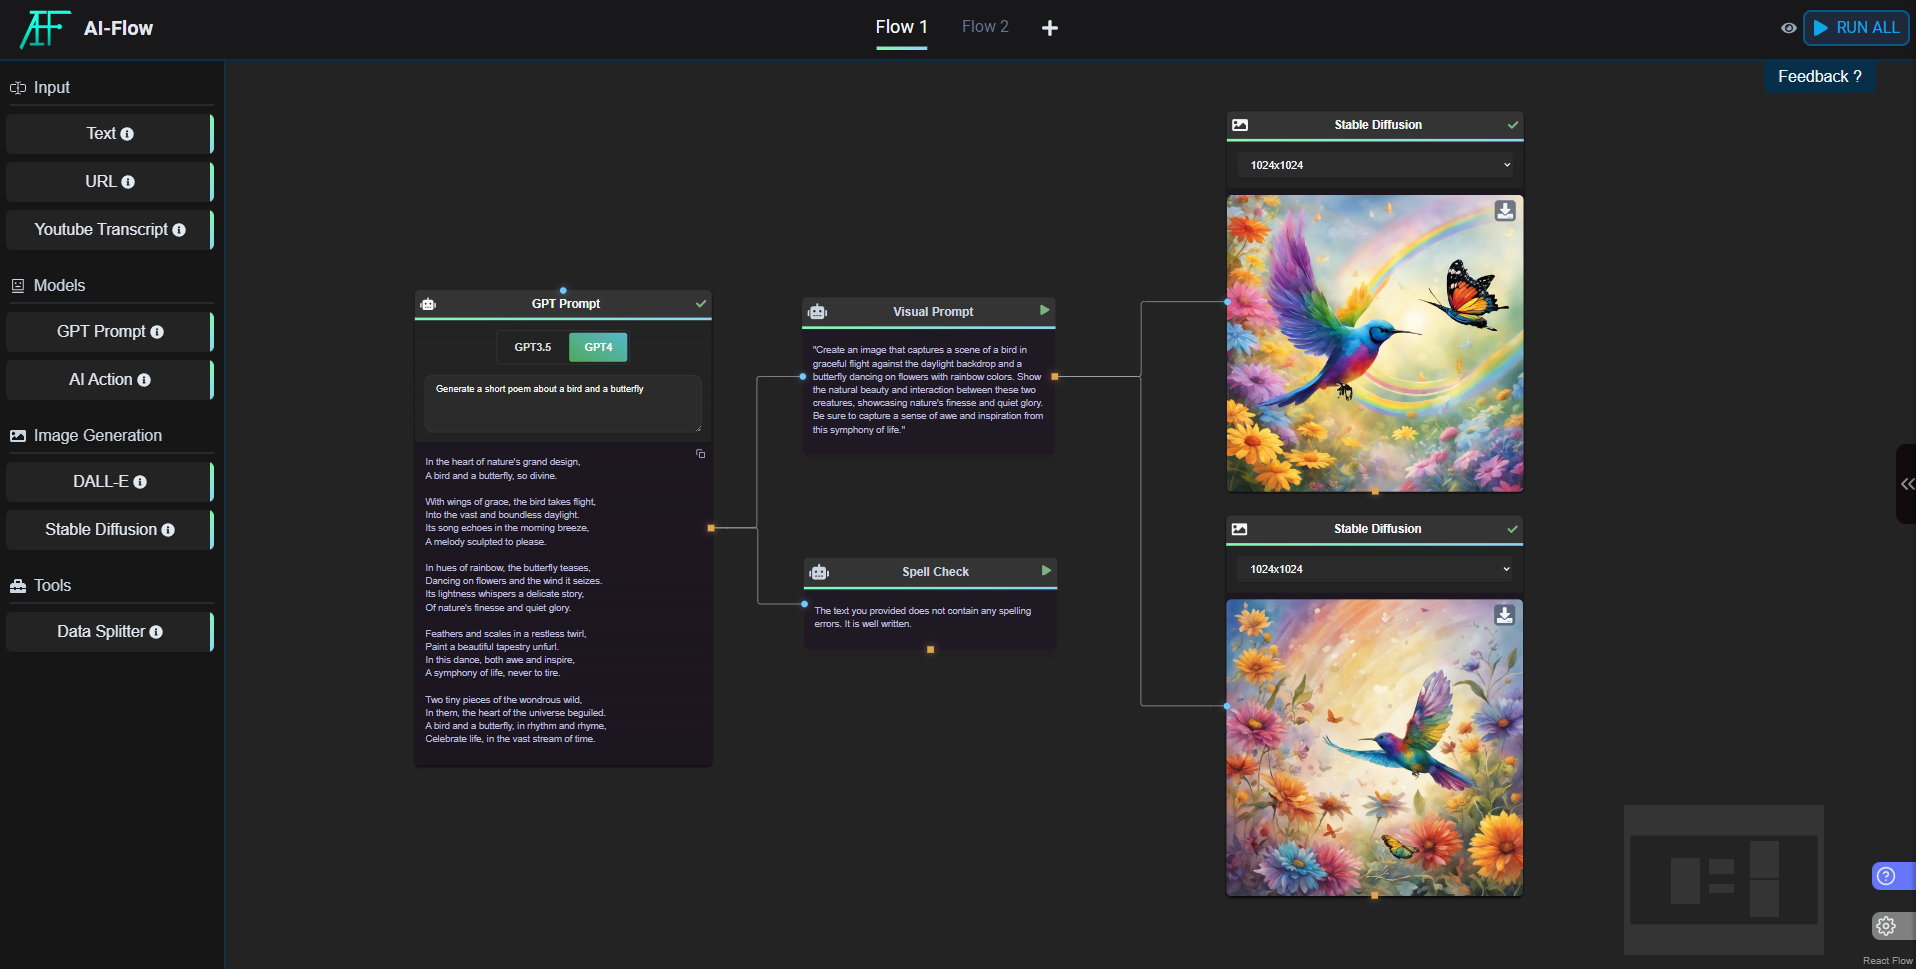
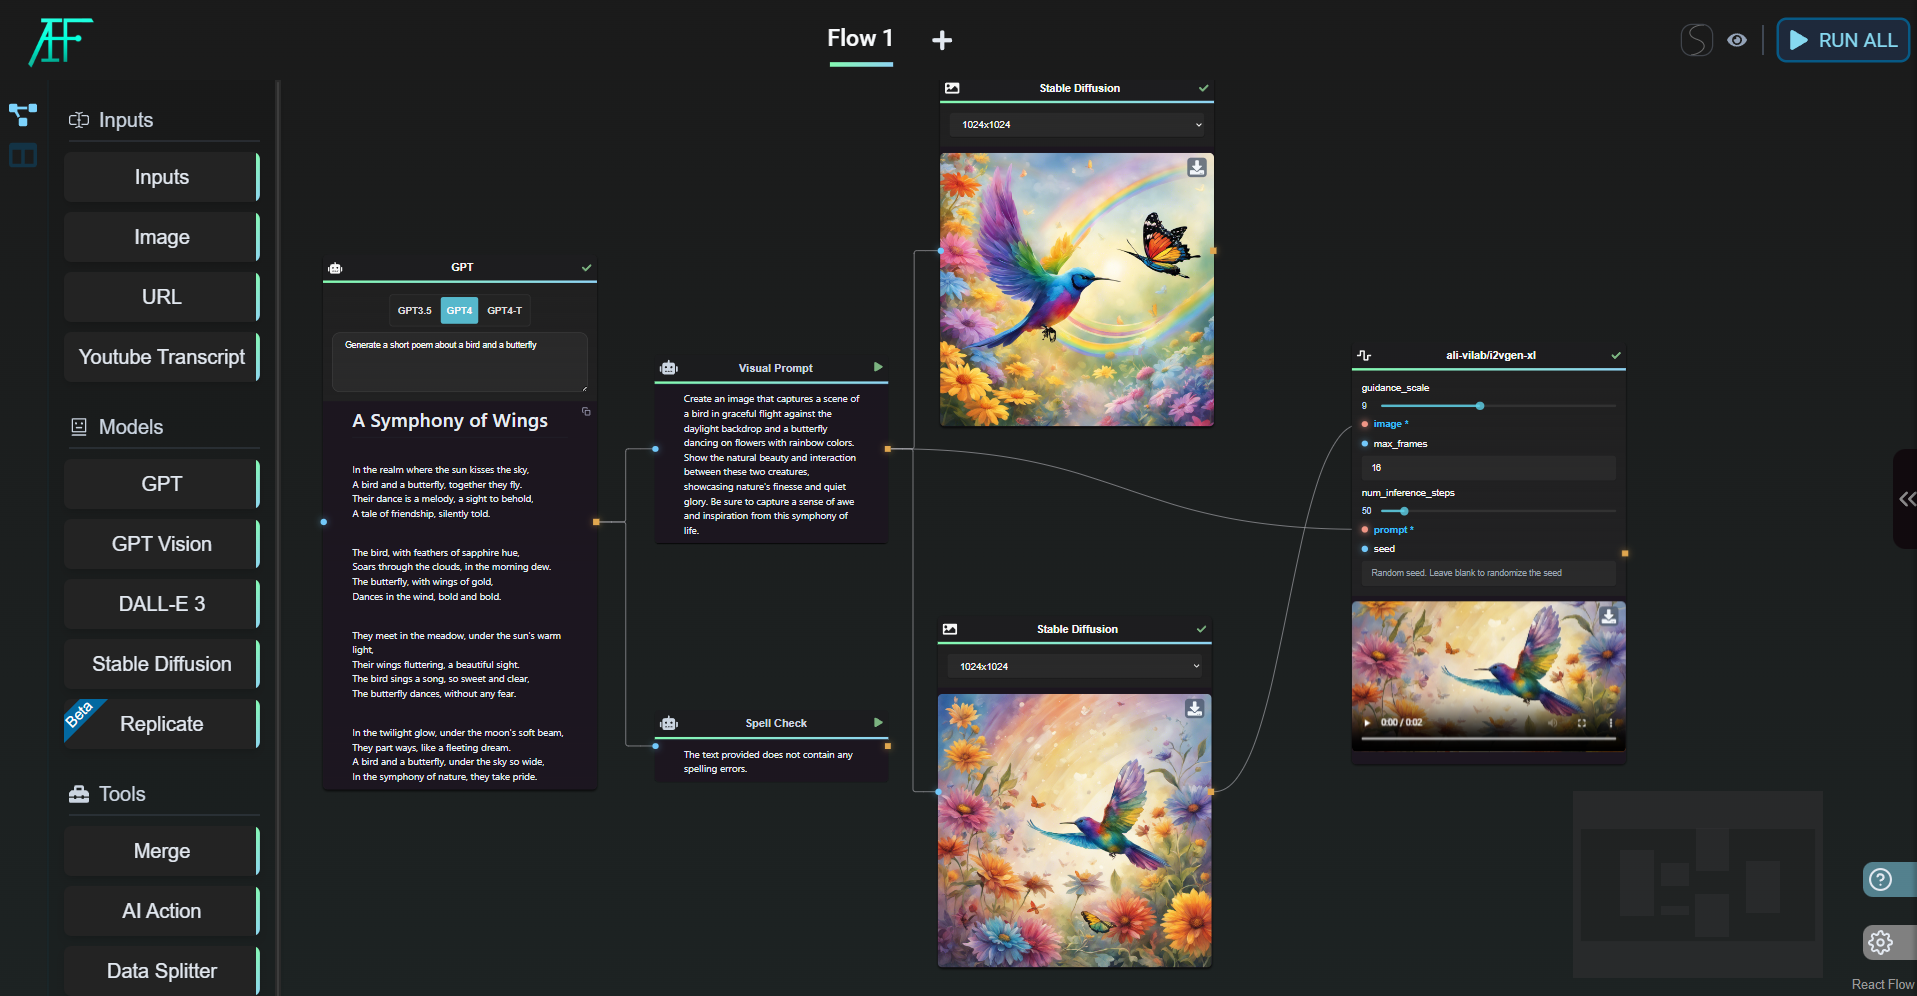
update doc for v.0.6.0

diff --git a/docs/nodes-presentation/replicate-node.md b/docs/nodes-presentation/replicate-node.md
@@ -1,0 +1,59 @@
+---
+sidebar_position: 6
+---
+
+# Access Diverse AI Models
+
+## Replicate Node
+
+The Replicate Node serves as a gateway to a multitude of open-source models hosted on Replicate, a platform that enables community members to host and run these models in the cloud. 
+
+This node provides seamless access to a wide array of innovative models available on [Replicate](https://replicate.com/explore).
+
+![Replicate Intro](/img/page-images/replicate-node/replicate-intro.gif)
+
+:::tip Note
+
+Each model on Replicate has its unique characteristics, including varying processing times and costs. Be aware that less frequently used models may experience slower response times during initial requests.
+
+:::
+
+
+### Model Selection Interface
+
+Upon selecting "Select Model," a popup window displays all available models. Models under the "spotlight" category are specifically curated by AI-FLOW and are subject to change.
+
+![Model Popup](/img/page-images/replicate-node/model-popup.png)
+
+This diverse selection enables the generation of various outputs including text, mp3, mp4, gif, png, etc. However, due to this diversity, some models may not be fully supported by ai-flow. 
+
+![Model Popup 2](/img/page-images/replicate-node/model-popup-2.png)
+
+Within a Replicate Node, all free fields can be utilized as inputs or filled out as form fields. Mandatory fields are highlighted in red.
+
+![Node Example](/img/page-images/replicate-node/node-example.png)
+
+:::tip Note
+
+Some models may lack mandatory fields but might still require specific inputs for successful operation.
+
+:::
+
+
+Below are two equivalent methods of utilizing the same model:
+
+![Node Example](/img/page-images/replicate-node/node-example-3.png)
+
+
+Resources such as images or sounds are transmitted via URLs. For instance, the output from DALL-E can be used as an input for the `input_image` field in the stable-video-diffusion model.
+
+By default, many fields are pre-filled with default values. Beginners can start with these defaults and later learn more about specific models on the [Replicate website](https://replicate.com/explore).
+
+![Node Example](/img/page-images/replicate-node/node-example-2.png)
+
+
+### Collapse Node
+
+Similar to other nodes, the Replicate Node can be collapsed by double-clicking on its header. This action will display only the fields that are linked to other nodes.
+
+![Node Example](/img/page-images/replicate-node/node-example-4.png)

diff --git a/docs/intro.md b/docs/intro.md
@@ -4,7 +4,7 @@ sidebar_position: 1
 
 # Introduction
 
-AI-Flow offers a node-based architecture, allowing users to build data flows by connecting various types of nodes. Whether you're looking to extract data from URLs, generate text with GPT, or even craft images using models like DALL-E, AI-Flow offers a wide array of functionalities tailored for your needs.
+AI-Flow offers a node-based architecture, allowing users to build data flows by connecting various types of nodes. Whether you're looking to extract data from URLs, generate text with GPT, or even craft or manipulates images, AI-Flow offers a wide array of functionalities tailored for your needs.
 
 ![AI-Flow overview](/img/page-images/intro/1.png)
 
@@ -15,13 +15,21 @@ AI-Flow offers a node-based architecture, allowing users to build data flows by 
 3. **Image Generation**: DALL-E from OpenAI or Stable Diffusion from StabilityAI.
 4. **Interactive Node-based UI**: Drag & drop nodes, establish connections, and create powerful data flows effortlessly.
 5. **Predefined AI Actions**: Execute specific AI tasks without the need to craft intricate prompts, perfect for common operations like content summarization.
+6. **Plenty of others models**: Mistral, MusicGen, StableVideoDiffusion
 
 ## Setting Up
 
-Before diving in, ensure you have the necessary API keys. For functionalities like GPT and DALL-E, you will need an OpenAI API Key. For Stable Diffusion, you'd need  API key from StabilityAI.
+Before diving in, ensure you have the necessary API keys. 
+* For functionalities like GPT and DALL-E, you will need an OpenAI API Key. 
+* For Stable Diffusion, you'd need  API key from StabilityAI.
+* To access the Replicate Node, which provides access to a wide choice of models, you will need a Replicate API key.
 
 :::tip Note
 
-OpenAI and StabilityAI both offer free-tier
+If you don't have the time to get your API Keys, you can use the Cloud Version of AI-FLOW, available at : 
+
+https://app.ai-flow.net/
+
+There is a free trial available with few credits !
 
 :::

diff --git a/docs/nodes-presentation/split-input.md b/docs/nodes-presentation/split-input.md
@@ -6,12 +6,28 @@ sidebar_position: 5
 
 ## Data Splitter
 
-This node uses GPT-4 to try to split an input. 
+This tool, leveraging the advanced capabilities of GPT-4, specializes in dissecting and organizing inputs into distinct segments. 
+
+It is particularly adept at handling inputs that inherently possess logically separated concepts. For instance:
+
+Idea 1 : .....
+
+Idea 2 : .....
+
+Idea 3 : .....
+
+Alternatively, it can process inputs formatted in a series like:
+
+Idea 1, Idea 2, Idea 3
+
+
+Upon receiving such structured data, this node effectively divides the input into 'N' distinct outputs, each corresponding to a unique idea or concept.
+
 
 ![Data Splitter](/img/page-images/split-input/1.png)
 
 :::danger Warning
 
-The result may not be perfect if the input is too large or the input is difficult to divide logically.
+Please note, the efficacy of segmentation may vary. Inputs that are overly complex or excessively lengthy could lead to less-than-perfect splitting, as the system may struggle with logically partitioning such data.
 
 :::

diff --git a/docs/install-guide/install-docker.md b/docs/install-guide/install-docker.md
@@ -12,6 +12,8 @@
 2. **Modify Configuration (if necessary)**:
    - The `docker-compose.yml` file contains various settings, including the ports the services will run on. Review and update if needed. Particularly, you might want to adjust the `PORTS` configuration depending on your needs.
 
+   - You'll need to update the REPLICATE_API_KEY in the docker-compose file to use the Replicate Node. This API key is used exclusively for fetching model data.
+
 ### Running the Application
 1. **Start the Services**:
    - To start the application in the foreground (logs will display in the terminal):

diff --git a/docs/install-guide/install-executable.md b/docs/install-guide/install-executable.md
@@ -17,6 +17,8 @@
      1. Right-click on `server.exe`.
      2. Select 'Run as administrator'.
 
+   - You'll need to update the REPLICATE_API_KEY in the `.env` file to use the Replicate Node.  This API key is used exclusively for fetching model data.
+
 2. **Accessing the Server**:
    - With the server running, open your preferred web browser and navigate to:
      ```

diff --git a/README.md b/README.md
@@ -2,6 +2,12 @@
 
 Live version is available [here](https://docs.ai-flow.net)
 
+
+
+Run project locally :
+
+```npm install```
+```npm start```
 ___
 
 This website is built using [Docusaurus 2](https://docusaurus.io/), a modern static website generator.
